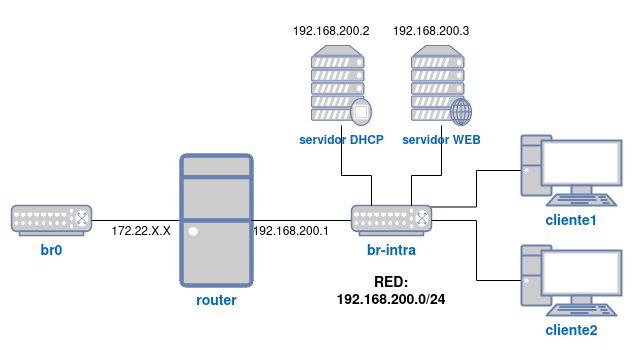
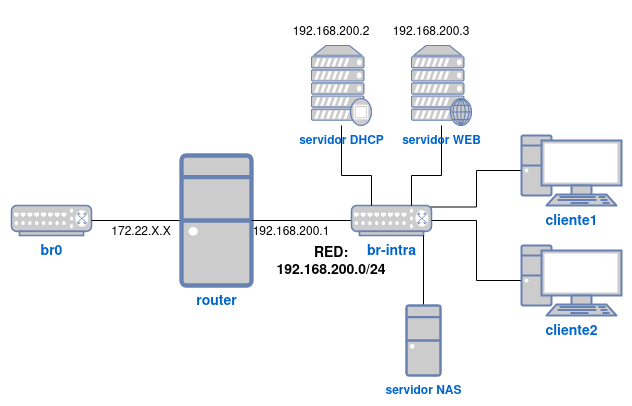
sri

diff --git a/modulos/_sri/sri/1_virtualizacion/practica2.md b/modulos/_sri/sri/1_virtualizacion/practica2.md
@@ -1,0 +1,46 @@
+---
+title: "Práctica 2/3: Virtualización en Linux y servidor DHCP (Parte 1)"
+---
+
+## Creación del escenario
+
+![Práctica](img/practica.png)
+
+Todas las operaciones las tiene que hacer desde la línea de comandos:
+
+1. Crea una **red muy aislada**, que se llame **red_intra** que creará el puente `br-intra`. Esta red se tiene que iniciar cada vez que encendemos el host.
+2. Crea con `virt-install` la máquina **router** con Debian 12: 
+	* Está conectada a la red pública (al bridge `br0`) y la **red_intra**.
+	* Esta máquina utiliza un disco en formato **raw** de 10 Gb.
+	* El hostname de esta máquina debe ser `router-tunombre`.
+	* Se debe poder acceder a ella por ssh con el usuario root sin que te pida contraseña (configura tu clave pública y la mia).
+	* Debes configurar la segunda interfaz de red con direccionamiento estático para que tenga la dirección `192.168.200.1`.
+	* Está máquina se debe iniciar cada vez que arrancamos el host.
+3. Crea con `virt-install` la máquina **servidorNAS** con Alpine Linux 3.20.
+    * Está conectada a la red **red_intra**, su dirección IP debe ser la `192.168.200.2`.
+    * La máquina tendrá un disco qcow2 de 15Gb.
+    * El hostname de esta máquina debe ser `nas-tunombre`.
+	* Se debe poder acceder a ella por ssh con el usuario root sin que te pida contraseña (configura tu clave pública y la mia).
+    * Está máquina se debe iniciar cada vez que arrancamos el host.
+4. Crea dos contenedores LXC conectados a la red **red_intra**. 
+	* **servidorDHCP**: Es un contador creado a partir de la plantilla **Debian Bookworm**. Configura su red de forma estática. Su dirección IP debe ser la `192.168.200.3`.
+	* **servidorWeb**: Es un contador creado a partir de la plantilla **Ubuntu 22.04 Jammy**. Configura su red de forma estática. Su dirección IP debe ser la `192.168.200.4`.
+	* Los contenedores se deben iniciar de forma automática y se les debe limitar la memoria a 512Mb.
+5. Configura la máquina **router** para que haga SNAT y permita que los contenedores tengan acceso al exterior (**La configuración debe ser persistente.**). Instala en los contenedores el servidor ssh y configúralo para que podamos entrar con clave privada (configura tu clave pública y la mia) por ssh con el usuario `root`.
+
+{% capture notice-text %}
+## Entrega
+
+1. Fichero xml con la definición de la red **red_intra**, la instrucción de creación y la que permite el inicio automático.
+2. Comprobación que el volumen de la máquina **router** tiene el formato raw.
+3. El comando `virsh` que muestra información de las máquinas **router** y **servidorNAS** para comprobar que se inicia de forma automática.
+4. Salida del comando `ip a` en **router**.
+5. Acceso por ssh sin que te pida la contraseña al **router**.
+6. Acceso por ssh sin que te pida la contraseña al **servidorNAS**.
+7. Lista los contenedores creados para que se visualice su dirección IP y se vea que se inician de forma automática.
+8. Prueba de funcionamiento de que se ha limitado la memoria de los contenedores de forma adecuada.
+9. Salida de la instrucción `iptables` que muestra la regla de SNAT que has configurado.
+10. Comprobación que los contenedores tienen acceso al exterior.
+11. Desde el host, utiliza `ssh -A`, para acceder al **router** y posteriormente a los contenedores y a la máquina **servidorNAS**.
+12. Busca información sobre la configuración de ssh para definir distintos accesos. Configura el fichero `~/.ssh/config` en tu equipo para que puedas acceder desde el host directamente a los contenedores  y a la máquina **servidorNAS**..
+{% endcapture %}<div class="notice--info">{{ notice-text | markdownify }}</div>
